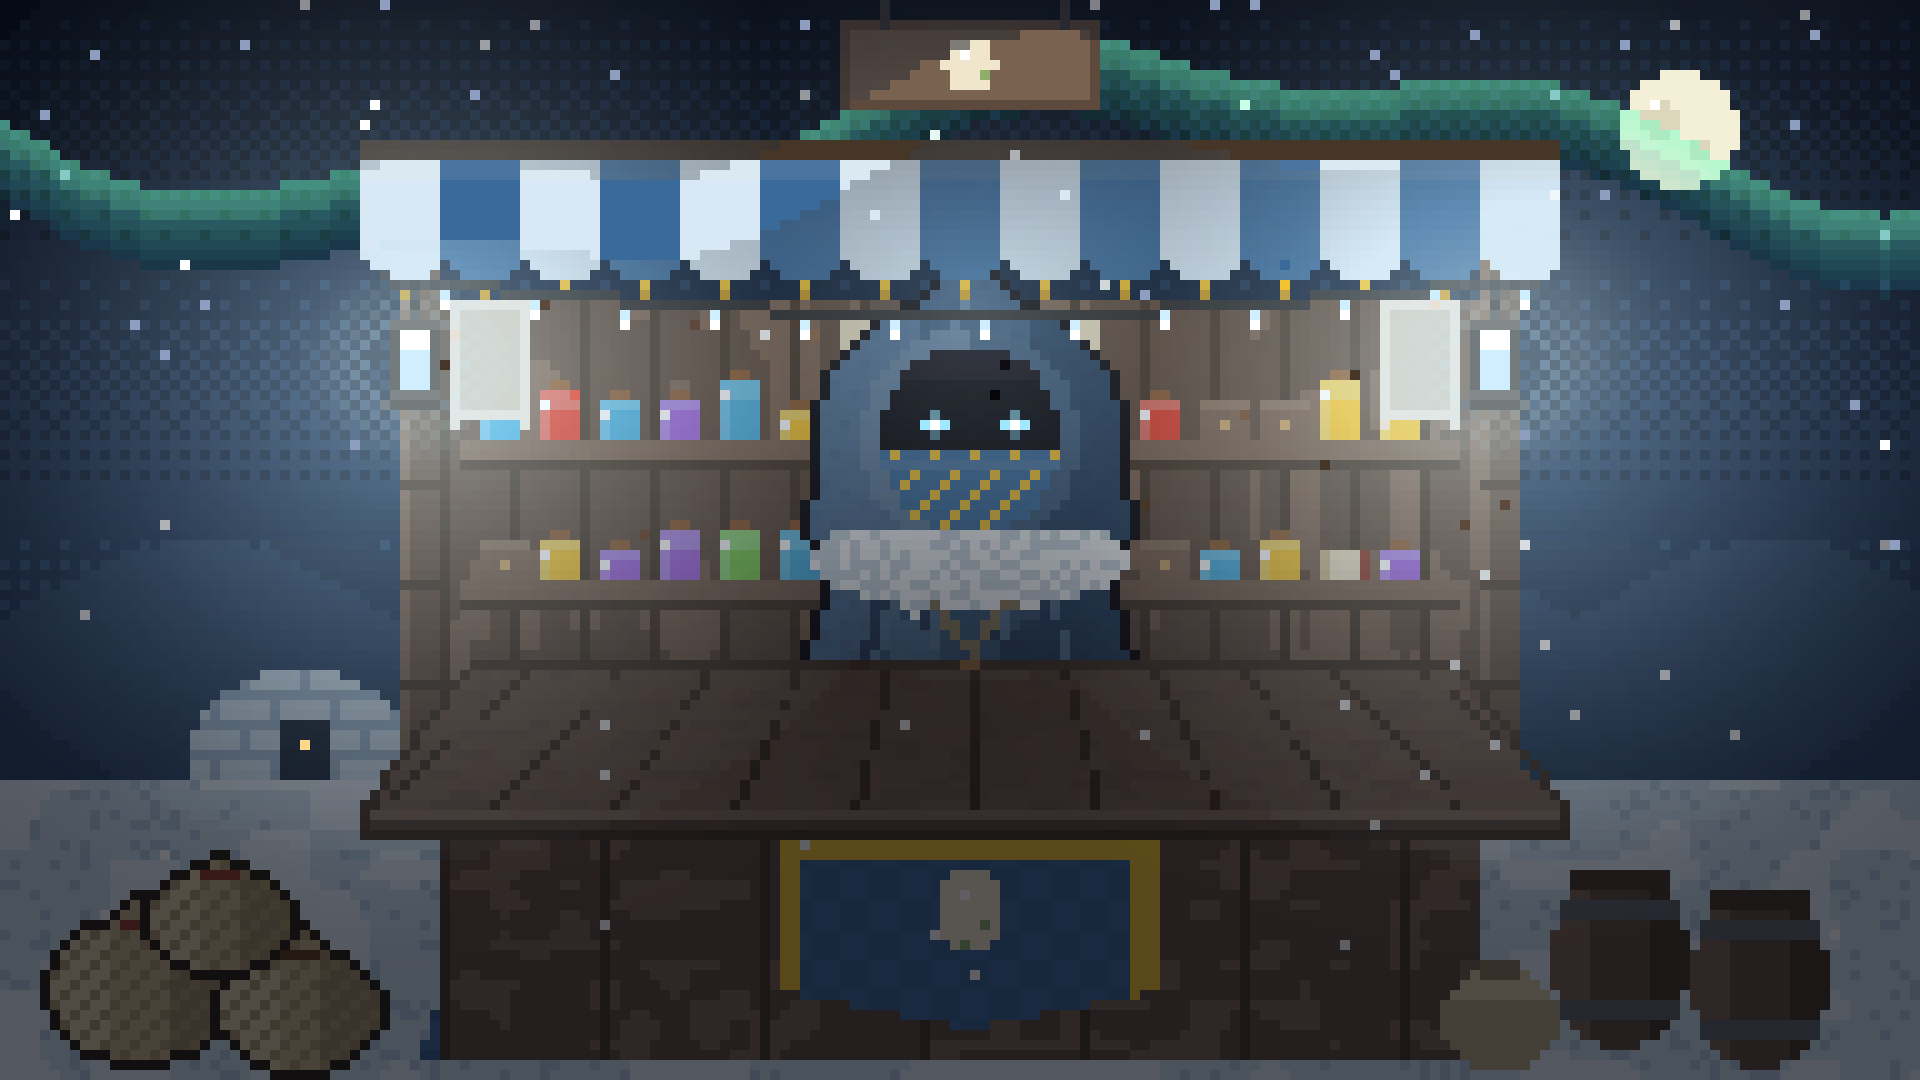
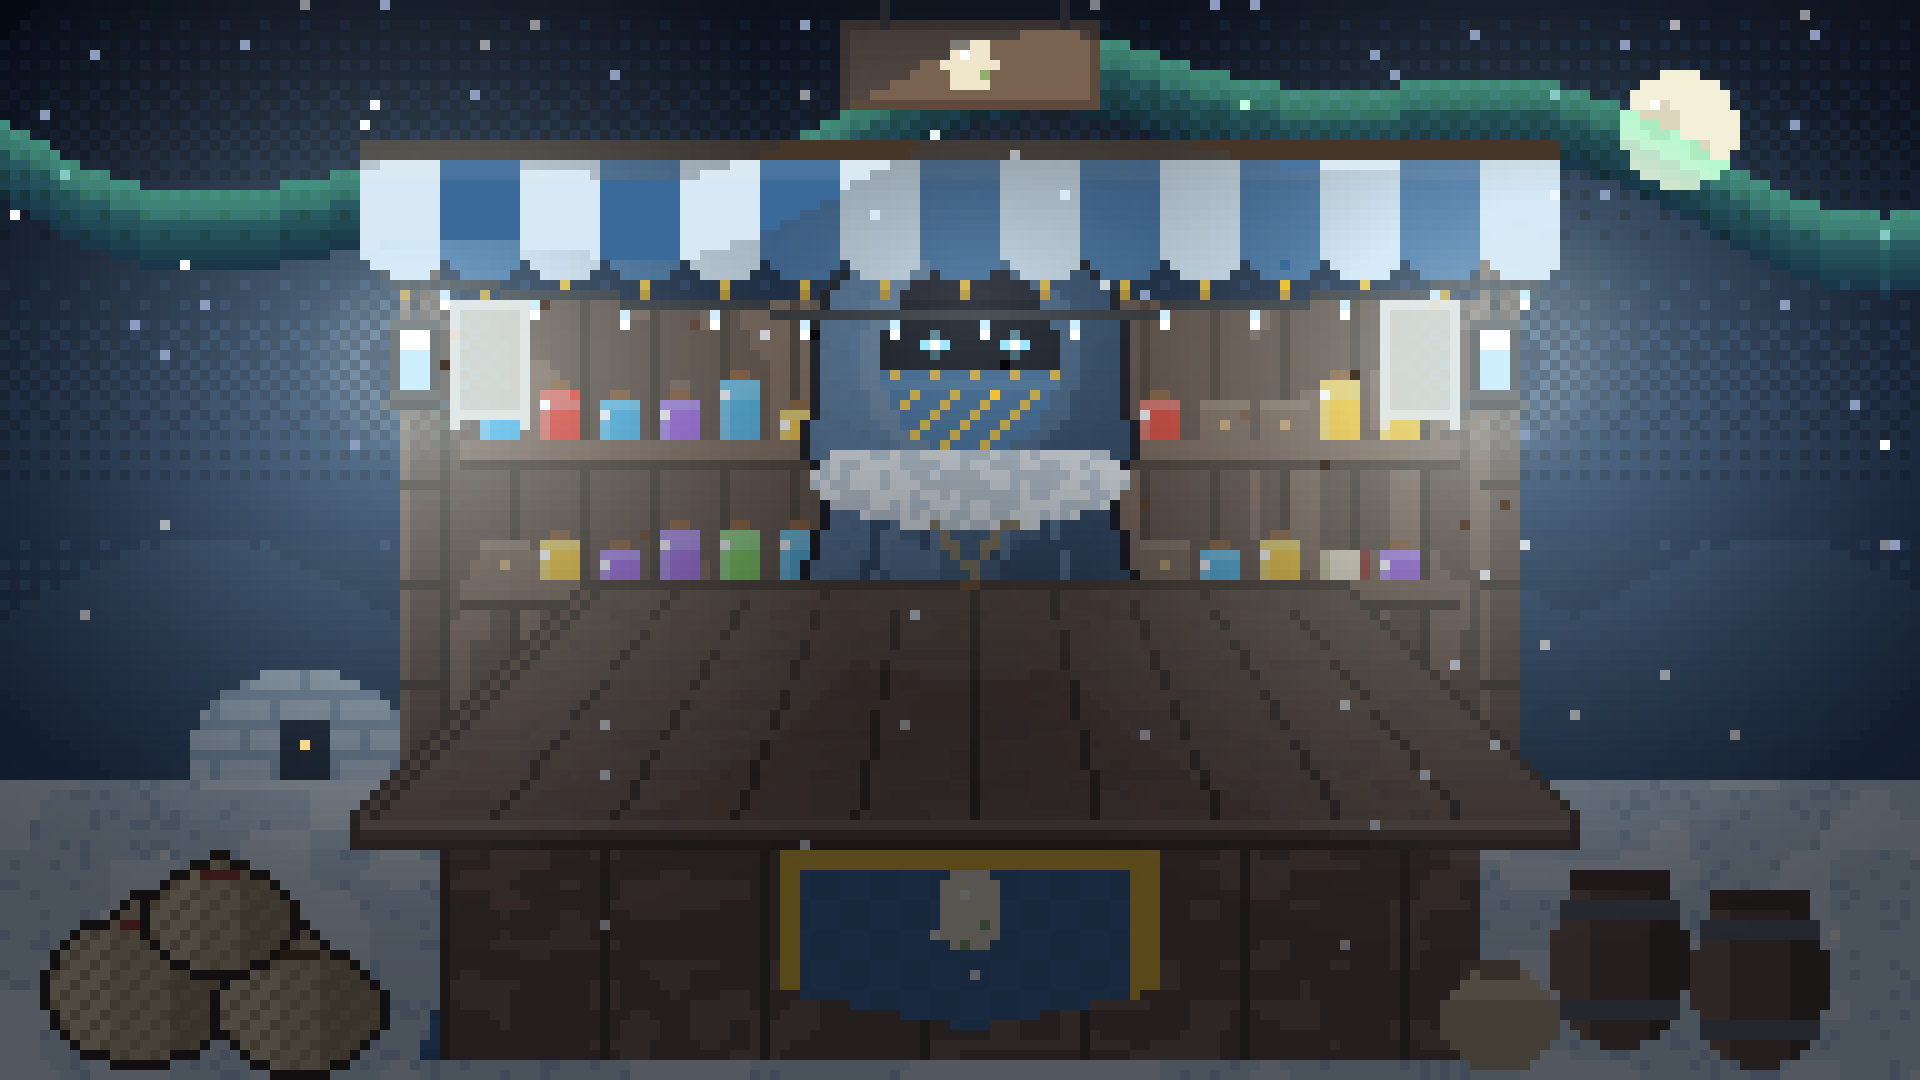
Marchands : plateau du comptoir bien plus profond (point de fuite marqué), marchand relevé ; caisses de nourriture et de soin vues un peu d'en haut comme les caisses d'œufs

diff --git a/style.css b/style.css
@@ -699,7 +699,7 @@
   .dp-luck-pips span { width: 9px; height: 9px; border-radius: 50%; border: 1.5px solid rgba(255,255,255,0.7); }
   .dp-luck-pips span.on { background: #6fd36f; border-color: #6fd36f; }
   .dp-luck-hint { font-size: 11px; opacity: 0.75; }
-  .dp-merchant-table { position: absolute; left: 50%; bottom: 28%; transform: translateX(-50%); z-index: 2; display: flex; gap: calc(var(--u) * 0.6); padding: 0; flex-wrap: nowrap; justify-content: center; align-items: flex-end; width: 56%; }
+  .dp-merchant-table { position: absolute; left: 50%; bottom: 30%; transform: translateX(-50%); z-index: 2; display: flex; gap: calc(var(--u) * 0.6); padding: 0; flex-wrap: nowrap; justify-content: center; align-items: flex-end; width: 56%; }
   .dp-merchant-card { background: rgba(255,255,255,0.16); backdrop-filter: blur(5px); -webkit-backdrop-filter: blur(5px); border: 2px solid rgba(255,255,255,0.4); border-radius: 12px; padding: 14px; display: flex; flex-direction: column; align-items: center; gap: 6px; width: 168px; box-shadow: 0 6px 14px rgba(0,0,0,0.4); flex: none; }
   .dp-merchant-card { flex: none; width: calc(var(--u) * 10.2); padding: calc(var(--u) * 0.6) !important; border-radius: calc(var(--u) * 0.6) !important; gap: calc(var(--u) * 0.25) !important; }
   .dp-merchant-card .dp-egg-img { width: calc(var(--u) * 5.4); height: calc(var(--u) * 5.4); }
@@ -710,7 +710,7 @@
   .dp-merchant-card[onclick] { cursor: pointer; }
   .dp-merchant-card-selected { border-color: var(--accent); box-shadow: 0 0 0 3px var(--accent-soft), 0 6px 14px rgba(0,0,0,0.4); }
 
-  .dp-merchant-table-objects { justify-content: center; gap: calc(var(--u) * 0.6); bottom: 28%; }
+  .dp-merchant-table-objects { justify-content: center; gap: calc(var(--u) * 0.6); bottom: 30%; }
 
   .dp-crate-card { position: relative; width: calc(var(--u) * 8.6); height: calc(var(--u) * 7); flex: none; display: flex; align-items: flex-end; justify-content: center; }
   .dp-crate-card .dp-crate-img, .dp-crate-card .dp-object-icon { width: 100%; height: 100%; object-fit: contain; object-position: bottom; filter: drop-shadow(0 4px 8px rgba(0,0,0,0.5)); transition: transform .15s ease; }

diff --git a/index.html b/index.html
@@ -15,7 +15,7 @@
 <link rel="preconnect" href="https://fonts.googleapis.com">
 <link rel="preconnect" href="https://fonts.gstatic.com" crossorigin>
 <link href="https://fonts.googleapis.com/css2?family=Press+Start+2P&family=Public+Sans:wght@400;500;600;700;800&display=swap" rel="stylesheet">
-<link rel="stylesheet" href="style.css?v=67">
+<link rel="stylesheet" href="style.css?v=68">
 <link rel="stylesheet" href="https://cdn.jsdelivr.net/npm/katex@0.16.11/dist/katex.min.css">
 <script src="https://cdn.jsdelivr.net/npm/katex@0.16.11/dist/katex.min.js"></script>
 <script src="https://cdn.jsdelivr.net/npm/katex@0.16.11/dist/contrib/auto-render.min.js"></script>
@@ -44,16 +44,16 @@
 </div>
 <div id="app"></div>
 <div class="toast-stack" id="toastStack"></div>
-<script src="js/01-core.js?v=170"></script>
-<script src="js/02-ia.js?v=170"></script>
-<script src="js/03-podcast-methodo.js?v=170"></script>
-<script src="js/04-prepa.js?v=170"></script>
-<script src="js/05-data-dinopark.js?v=170"></script>
-<script src="js/06-pages.js?v=170"></script>
-<script src="js/07-editeur-outils.js?v=170"></script>
-<script src="js/08-fenetres.js?v=170"></script>
-<script src="js/09-app.js?v=170"></script>
-<script src="js/10-calendrier-aujourdhui.js?v=170"></script>
-<script src="js/11-routeur-demarrage.js?v=170"></script>
+<script src="js/01-core.js?v=171"></script>
+<script src="js/02-ia.js?v=171"></script>
+<script src="js/03-podcast-methodo.js?v=171"></script>
+<script src="js/04-prepa.js?v=171"></script>
+<script src="js/05-data-dinopark.js?v=171"></script>
+<script src="js/06-pages.js?v=171"></script>
+<script src="js/07-editeur-outils.js?v=171"></script>
+<script src="js/08-fenetres.js?v=171"></script>
+<script src="js/09-app.js?v=171"></script>
+<script src="js/10-calendrier-aujourdhui.js?v=171"></script>
+<script src="js/11-routeur-demarrage.js?v=171"></script>
 </body>
 </html>

diff --git a/js/01-core.js b/js/01-core.js
@@ -2,7 +2,7 @@
 // Studino — stockage, images, audio, schémas
 // Fichier chargé dans l'ordre par index.html : les fichiers partagent les mêmes variables globales.
 
-  var APP_VERSION = "13.8"; // +0.1 à chaque push sur GitHub, pour que l'utilisateur puisse vérifier qu'il a bien la dernière version
+  var APP_VERSION = "13.9"; // +0.1 à chaque push sur GitHub, pour que l'utilisateur puisse vérifier qu'il a bien la dernière version
   // Installation sur l'écran d'accueil : Chrome/Edge/Android proposent l'installation par un événement
   // qu'on garde pour le bouton des paramètres ; l'iPhone n'en a pas, on explique la marche à suivre.
   var installPromptEvent = null;

diff --git a/sw.js b/sw.js
@@ -2,7 +2,7 @@
 // Pages, scripts et styles : toujours la version en ligne d'abord (pour avoir les mises à jour),
 // la copie gardée seulement si le réseau ne répond pas. Images et sons : la copie gardée d'abord.
 // Les autres sites (IA Gemini, bibliothèques) ne passent pas par ici.
-var CACHE = "studino-v6"; // à changer quand les images changent : les anciennes copies en cache sont supprimées
+var CACHE = "studino-v7"; // à changer quand les images changent : les anciennes copies en cache sont supprimées
 
 self.addEventListener("install", function () { self.skipWaiting(); });
 self.addEventListener("activate", function (e) {
